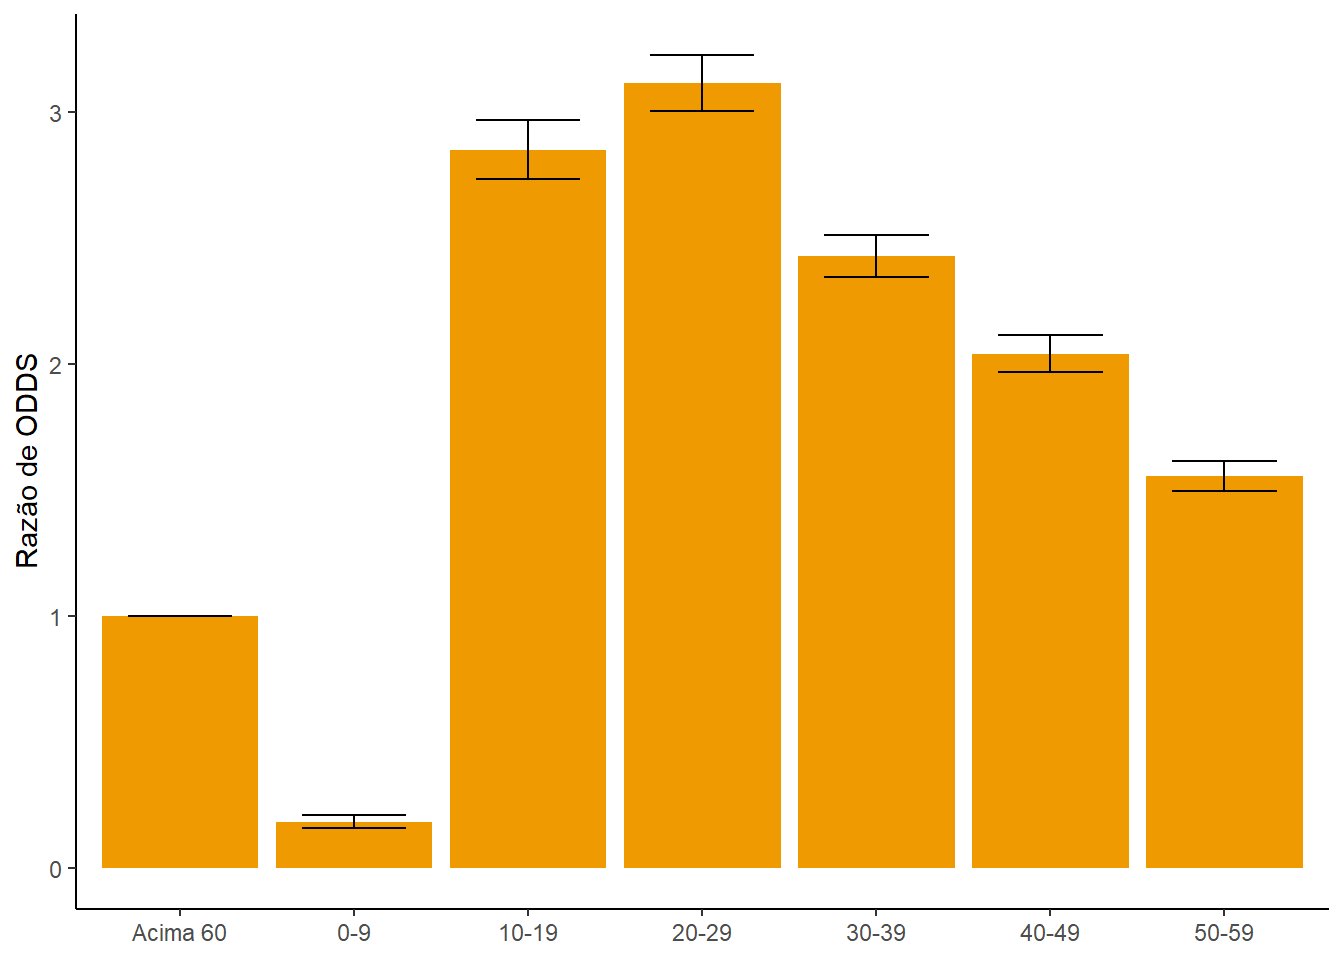
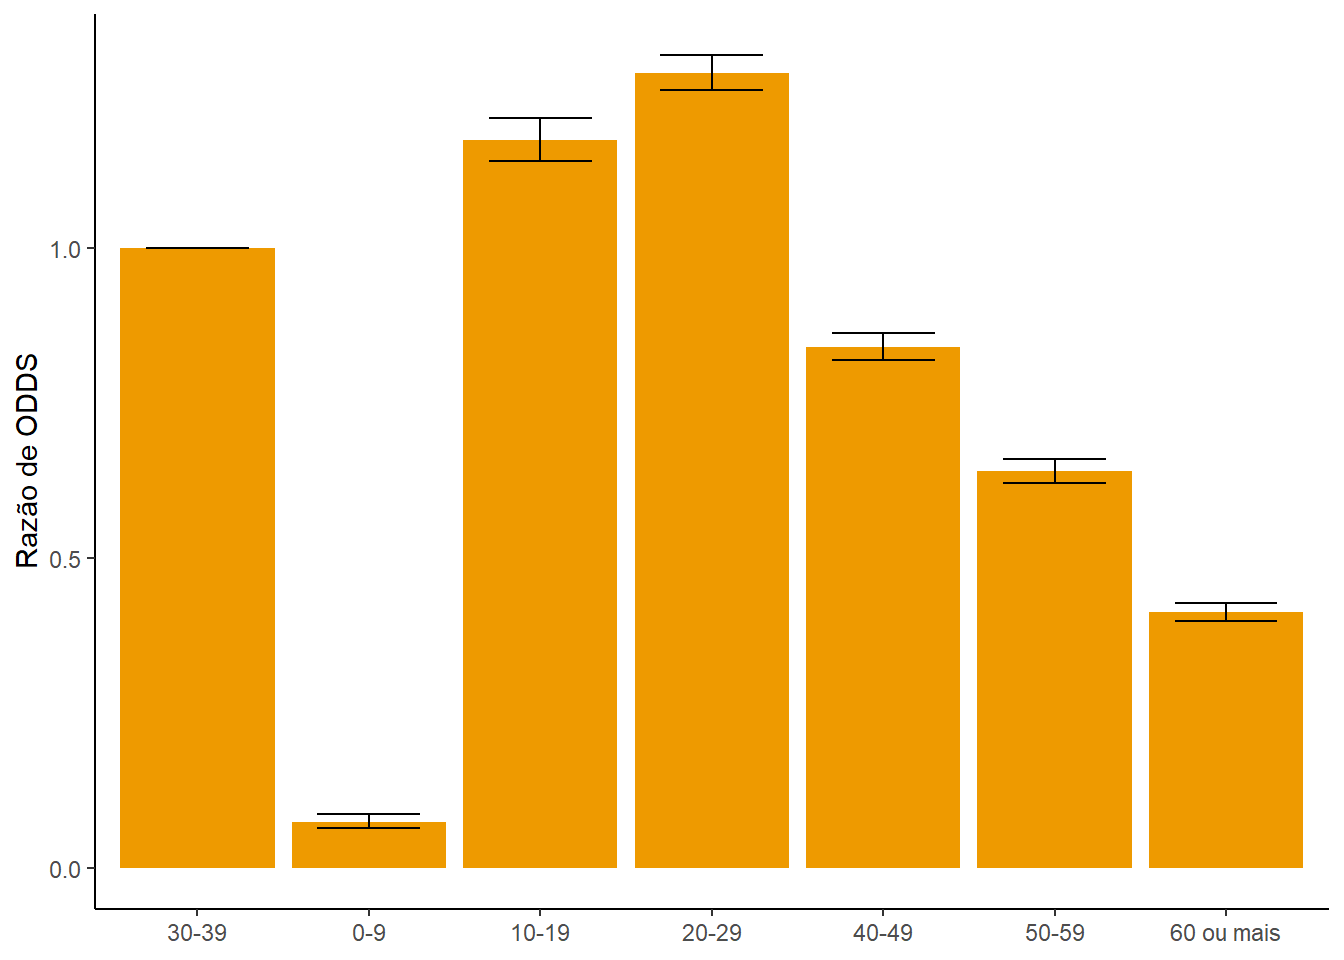
Atualizando script base

diff --git a/docs/metodologia.html b/docs/metodologia.html
@@ -200,7 +200,7 @@ p {
 <p>
 </p><p>Então foi filtrado o modo de transporte da vítima, retirando casos com “pedestres”, “bicicletas” e “outros”, que resultou em uma base com 442.411 observações.. A análise considerou os óbitos em sinistros de trânsito ocorridos desde 1996.</p>
 <p>
-</p><p>Na sequência, algumas variáveis tiveram suas categorias reclassificadas, a fim de obter um maior nível de agregação e facilitar a interpretação dos resultados. As faixas etárias foram recodificadas em grupos maiores e a raça preta e pardos foi unificada. O Quadro 1 a seguir apresenta o comparativo entre as categorias originais da base de dados e as categorias modificadas para a variável que representa a faixa etária da vítima e a raça.<strong>REVISAR ESSA PARTE POIS NN UNIFIQUEI AS CATEGORIAS PRETO/PARDO</strong></p>
+</p><p>Na sequência, as faixas etárias foram recodificadas em grupos maiores, a fim de obter um maior nível de agregação e facilitar a interpretação dos resultados. O Quadro 1 a seguir apresenta o comparativo entre as categorias originais da base de dados e as categorias modificadas para a variável faixa etária da vítima.</p>
 <p style="font-size: 16px;text-align: center;">
 Quadro 1: Categorias modificadas
 </p>
@@ -220,13 +220,8 @@ Quadro 1: Categorias modificadas
 <tbody>
 <tr class="odd">
 <td>faixa_etaria_vitima</td>
-<td>0-4, 5-9, 10-14, 15-19, 20-24, 25-34, 35-44, 45-54, 55-64, 65+</td>
-<td>0-19, 20-34, 35-49, 50-64, 65+</td>
-</tr>
-<tr class="even">
-<td>raca_vitima</td>
-<td>Preta, Parda, Indígena, Amarela, Branca</td>
-<td>Pretos/pardos, branca, indígena, amarela</td>
+<td>0 a 4 anos, 5 a 9 anos, 10 a 14 anos, 15 a 19 anos, 20 a 24 anos, 25 a 29 anos, 30 a 34 anos, 35 a 39 anos, 40 a 44 anos, 45 a 49 anos, 50 a 54 anos, 55 a 59 anos, 60 a 64 anos, 65 a 69 anos, 70 a 74 anos, 75 a 79 anos, Mais de 80 anos</td>
+<td>0-9, 10-19, 20-29, 30-39, 40-49, 50-59, 60 ou mais</td>
 </tr>
 </tbody>
 </table>
@@ -247,27 +242,31 @@ Quadro 2: Categorias de referência para cada variável explicativa
 <tbody>
 <tr class="odd">
 <td>faixa_etaria_vitima</td>
-<td>MUDAR</td>
+<td>30-39</td>
 </tr>
 <tr class="even">
 <td>escolaridade_vitima</td>
-<td>MUDAR</td>
+<td>12 anos ou mais</td>
 </tr>
 <tr class="odd">
 <td>raca_vitima</td>
-<td>MUDAR</td>
+<td>Branca</td>
 </tr>
 <tr class="even">
 <td>nome_regiao_res</td>
-<td>MUDAR</td>
+<td>Sul</td>
 </tr>
 <tr class="odd">
 <td>sexo_vitima</td>
-<td>MUDAR</td>
+<td>Feminino</td>
 </tr>
 <tr class="even">
 <td>estado_civil_vitima</td>
-<td>MUDAR</td>
+<td>casado</td>
+</tr>
+<tr class="odd">
+<td>ocupante_motocicleta</td>
+<td>nao_ocupante</td>
 </tr>
 </tbody>
 </table>

diff --git a/docs/resultados.html b/docs/resultados.html
@@ -205,44 +205,44 @@ Tabela 1: Resultados
 <tr class="odd">
 <td style="text-align: left;">Faixa etária</td>
 <td style="text-align: left;">0-9</td>
-<td style="text-align: right;">0.18</td>
-<td style="text-align: right;">0.16</td>
-<td style="text-align: right;">0.21</td>
+<td style="text-align: right;">0.08</td>
+<td style="text-align: right;">0.07</td>
+<td style="text-align: right;">0.09</td>
 </tr>
 <tr class="even">
 <td style="text-align: left;">Faixa etária</td>
 <td style="text-align: left;">10-19</td>
-<td style="text-align: right;">2.85</td>
-<td style="text-align: right;">2.73</td>
-<td style="text-align: right;">2.97</td>
+<td style="text-align: right;">1.17</td>
+<td style="text-align: right;">1.14</td>
+<td style="text-align: right;">1.21</td>
 </tr>
 <tr class="odd">
 <td style="text-align: left;">Faixa etária</td>
 <td style="text-align: left;">20-29</td>
-<td style="text-align: right;">3.11</td>
-<td style="text-align: right;">3.00</td>
-<td style="text-align: right;">3.22</td>
+<td style="text-align: right;">1.28</td>
+<td style="text-align: right;">1.25</td>
+<td style="text-align: right;">1.31</td>
 </tr>
 <tr class="even">
 <td style="text-align: left;">Faixa etária</td>
-<td style="text-align: left;">30-39</td>
-<td style="text-align: right;">2.43</td>
-<td style="text-align: right;">2.34</td>
-<td style="text-align: right;">2.51</td>
+<td style="text-align: left;">40-49</td>
+<td style="text-align: right;">0.84</td>
+<td style="text-align: right;">0.82</td>
+<td style="text-align: right;">0.86</td>
 </tr>
 <tr class="odd">
 <td style="text-align: left;">Faixa etária</td>
-<td style="text-align: left;">40-49</td>
-<td style="text-align: right;">2.04</td>
-<td style="text-align: right;">1.97</td>
-<td style="text-align: right;">2.11</td>
+<td style="text-align: left;">50-59</td>
+<td style="text-align: right;">0.64</td>
+<td style="text-align: right;">0.62</td>
+<td style="text-align: right;">0.66</td>
 </tr>
 <tr class="even">
 <td style="text-align: left;">Faixa etária</td>
-<td style="text-align: left;">50-59</td>
-<td style="text-align: right;">1.55</td>
-<td style="text-align: right;">1.50</td>
-<td style="text-align: right;">1.61</td>
+<td style="text-align: left;">60 ou mais</td>
+<td style="text-align: right;">0.41</td>
+<td style="text-align: right;">0.40</td>
+<td style="text-align: right;">0.43</td>
 </tr>
 <tr class="odd">
 <td style="text-align: left;">Sexo</td>

diff --git a/docs/index.html b/docs/index.html
@@ -190,7 +190,7 @@ ul.task-list li input[type="checkbox"] {
     <div>
     <div class="quarto-title-meta-heading">Data de Publicação</div>
     <div class="quarto-title-meta-contents">
-      <p class="date">13 de novembro de 2024</p>
+      <p class="date">22 de novembro de 2024</p>
     </div>
   </div>
   
